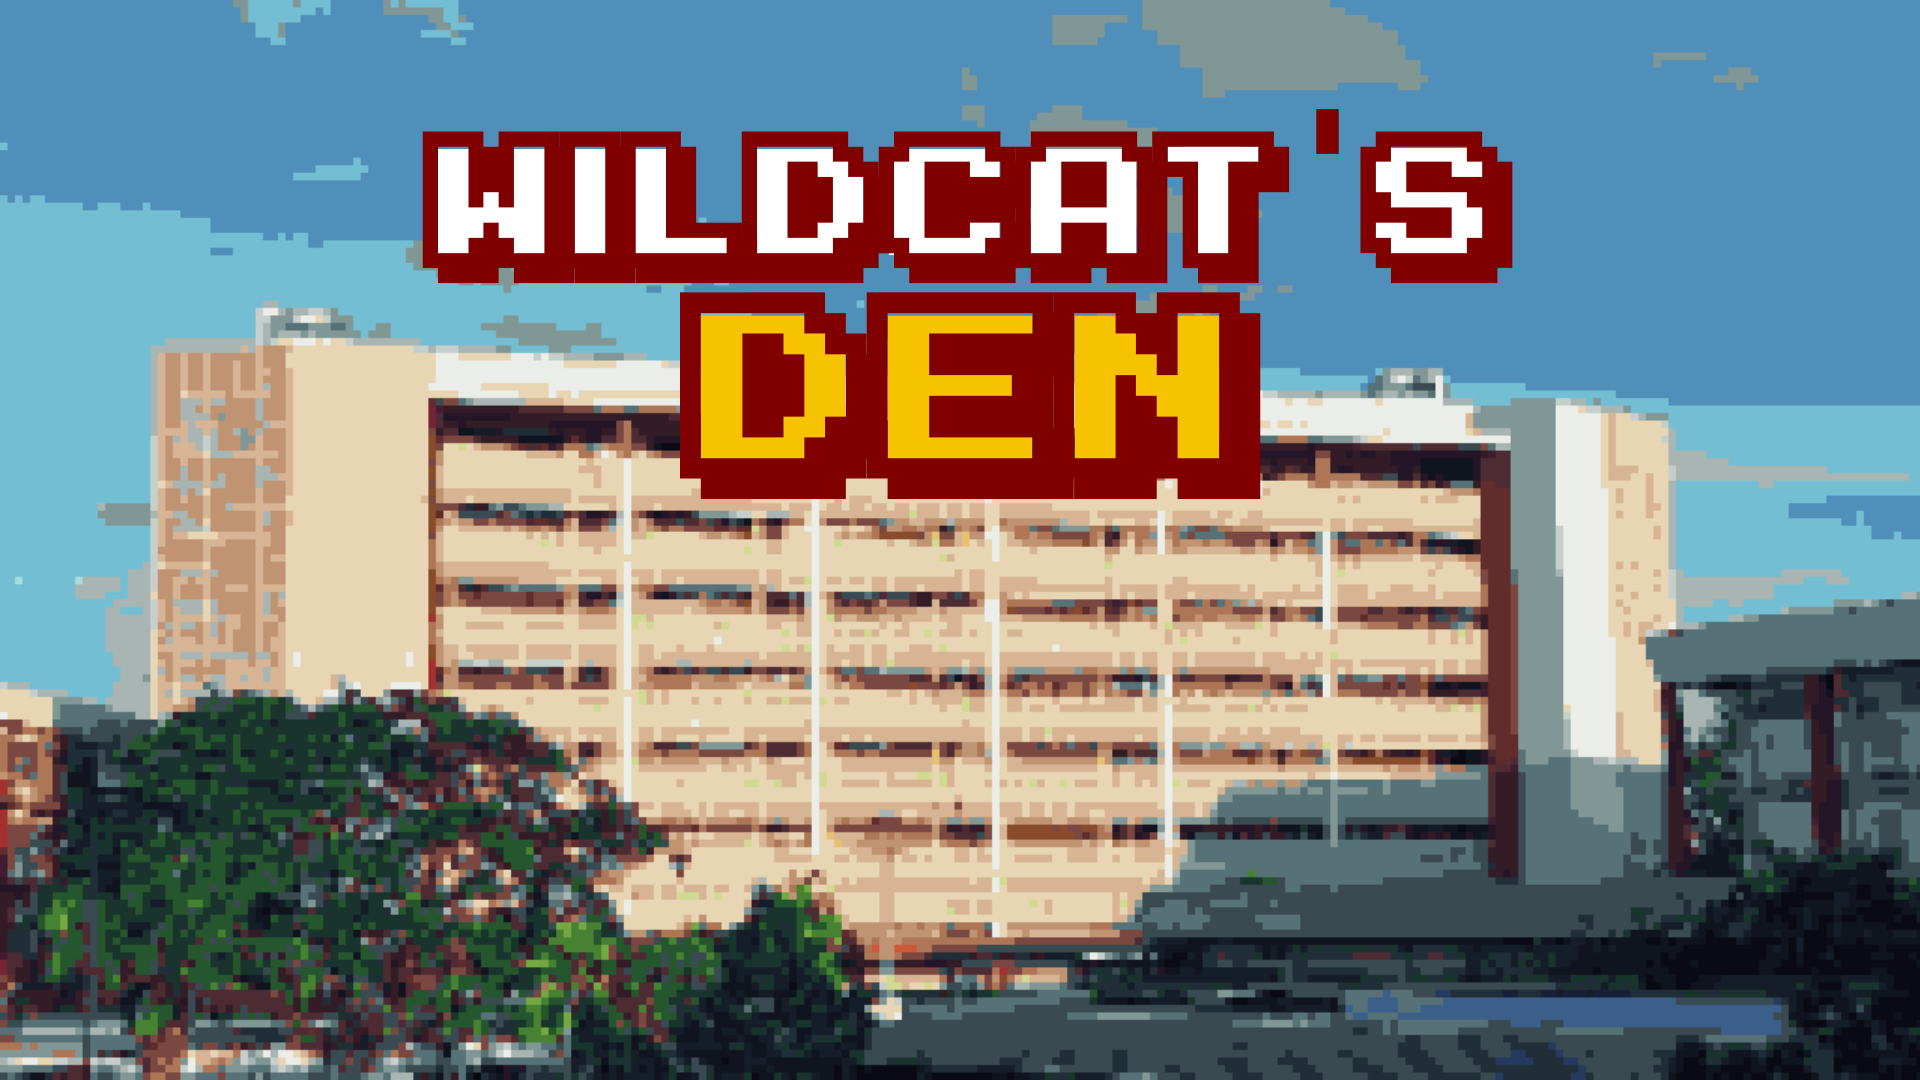
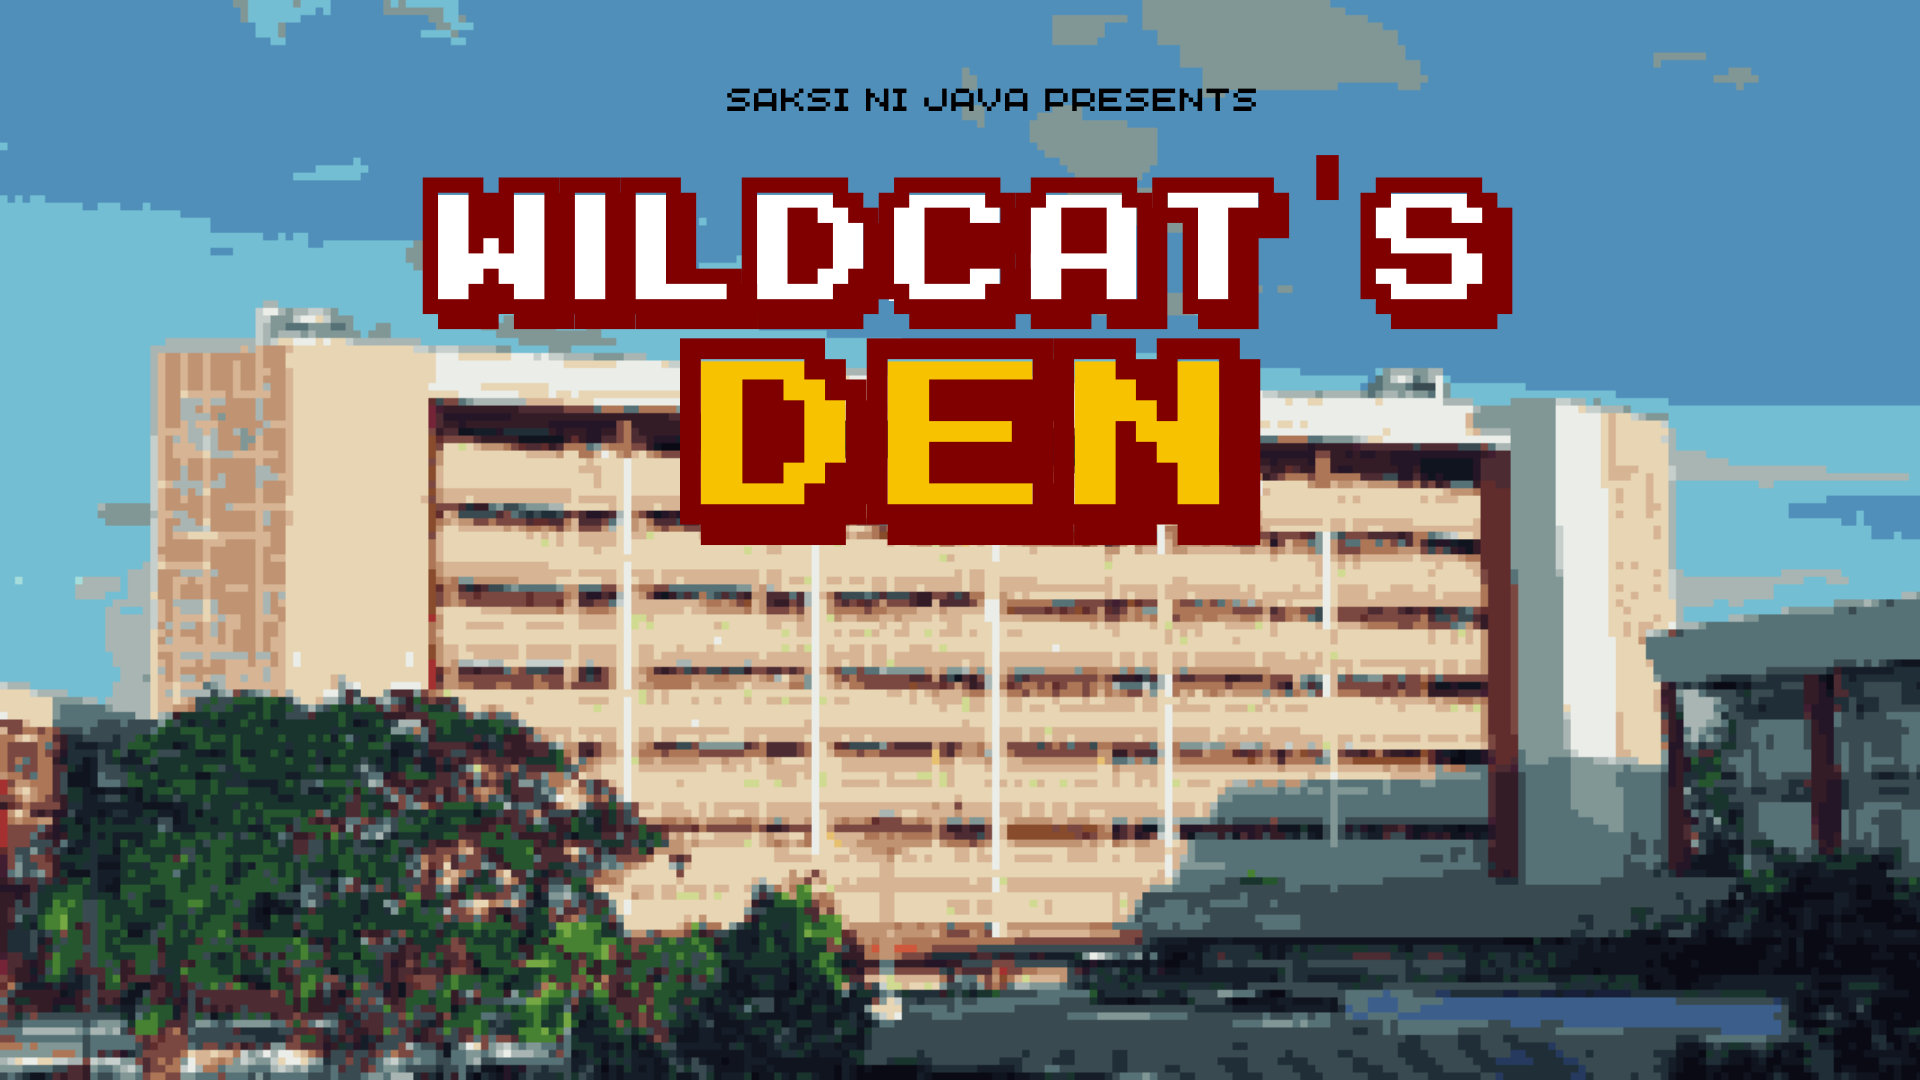
added our group's name on main menu

Changed region(s): [[0.2188, 0.0611, 0.8125, 0.5194]]

diff --git a/core/src/main/java/io/mygame/ui/IntroGameUI.java b/core/src/main/java/io/mygame/ui/IntroGameUI.java
@@ -19,8 +19,8 @@ public class IntroGameUI extends UI {
     private TextButton submitBtn;
     private TextButton returnBtn;
     private TextField nameField;
-    private Table instructionTable1, instructionTable2, introTable;
-    private boolean anyKeyPressed = false;
+    private Table instructionTable1, instructionTable2, instructionTable3, introTable;
+    private boolean instructionOneDone = false, instructionTwoDone = false;
 
     public IntroGameUI(ScreenState screenState, Game game) {
         super(new ScreenViewport(), screenState, game);
@@ -89,7 +89,7 @@ public class IntroGameUI extends UI {
         instructionTable1.setFillParent(true);
 
         Image image = new Image(skin, "Instruction Screen");
-        image.setScaling(Scaling.fit);
+        image.setScaling(Scaling.fill);
         instructionTable1.add(image);
         stage.addActor(instructionTable1);
     }
@@ -98,12 +98,27 @@ public class IntroGameUI extends UI {
         instructionTable2 = new Table();
         instructionTable2.setFillParent(true);
 
-        Image image = new Image(skin, "Instruction Screen");
+        Image image = new Image(skin, "Instruction Screen2");
         image.setScaling(Scaling.fill);
         instructionTable2.add(image);
 
         if (instructionTable1 != null) {
             instructionTable1.remove();
+        }
+
+        stage.addActor(instructionTable2);
+    }
+
+    private void instructionUI3() {
+        instructionTable2 = new Table();
+        instructionTable2.setFillParent(true);
+
+        Image image = new Image(skin, "Instruction Screen2-1");
+        image.setScaling(Scaling.fill);
+        instructionTable2.add(image);
+
+        if (instructionTable2 != null) {
+            instructionTable2.remove();
         }
 
         stage.addActor(instructionTable2);
@@ -145,12 +160,17 @@ public class IntroGameUI extends UI {
 
         if(introTable.getParent() == null) {
             if(Gdx.input.isKeyJustPressed(Input.Keys.ANY_KEY)) {
-                if(instructionTable1.getParent() != null) {
-                    gameManager.getSoundManager().addSound("click");
-                    instructionUI2();
-                } else if(instructionTable1.getParent() == null && instructionTable2.getParent() != null) {
+                if(instructionTwoDone) {
                     gameManager.getSoundManager().addSound("click");
                     screenState.changeScreen(new GameScreen(getGame()));
+                } else if(instructionOneDone) {
+                    gameManager.getSoundManager().addSound("click");
+                    instructionTwoDone = true;
+                    instructionUI3();
+                } else if(instructionTable1.getParent() != null) {
+                    gameManager.getSoundManager().addSound("click");
+                    instructionOneDone = true;
+                    instructionUI2();
                 }
             }
         }

diff --git a/lwjgl3/src/main/java/io/mygame/lwjgl3/Lwjgl3Launcher.java b/lwjgl3/src/main/java/io/mygame/lwjgl3/Lwjgl3Launcher.java
@@ -29,9 +29,9 @@ public class Lwjgl3Launcher {
         //// useful for testing performance, but can also be very stressful to some hardware.
         //// You may also need to configure GPU drivers to fully disable Vsync; this can cause screen tearing.
 
-//        Graphics.DisplayMode primaryMode = Lwjgl3ApplicationConfiguration.getDisplayMode();
-//        configuration.setFullscreenMode(primaryMode);
-        configuration.setWindowedMode(1920, 1080);
+        Graphics.DisplayMode primaryMode = Lwjgl3ApplicationConfiguration.getDisplayMode();
+        configuration.setFullscreenMode(primaryMode);
+//        configuration.setWindowedMode(1920, 1080);
 
         //// You can change these files; they are in lwjgl3/src/main/resources/ .
         configuration.setWindowIcon("libgdx128.png", "libgdx64.png", "libgdx32.png", "libgdx16.png");

diff --git a/core/src/main/java/io/mygame/factories/NPCFactory.java b/core/src/main/java/io/mygame/factories/NPCFactory.java
@@ -27,7 +27,7 @@ public class NPCFactory {
         npcs.add(new Student.CollegeMale1(1506, 2250, "in-place"));
 
         // 14
-        npcs.add(new Student.CollegeFemale1(1730, 180, "in-place"));
+        npcs.add(new Student.CollegeFemale1(1807, 226, "in-place"));
         npcs.add(new Student.CollegeFemale2(1701, 351, "in-place"));
         npcs.add(new Student.CollegeFemale1(942, 1160, "vertical"));
         npcs.add(new Student.CollegeFemale1(1769, 781, "in-place"));
